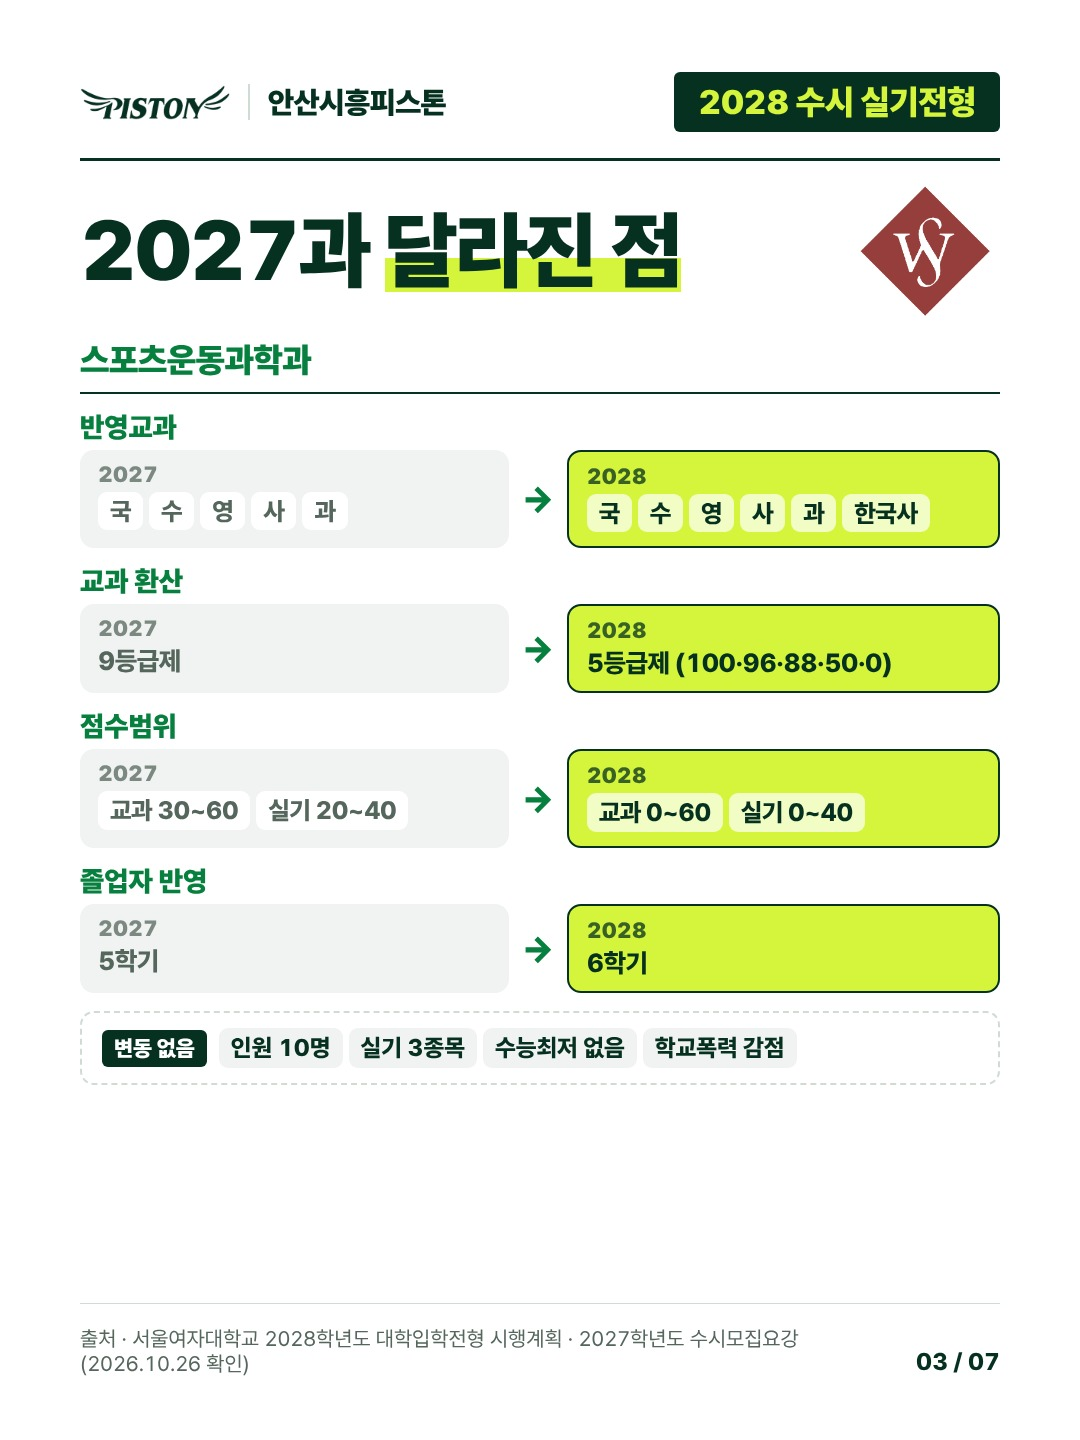
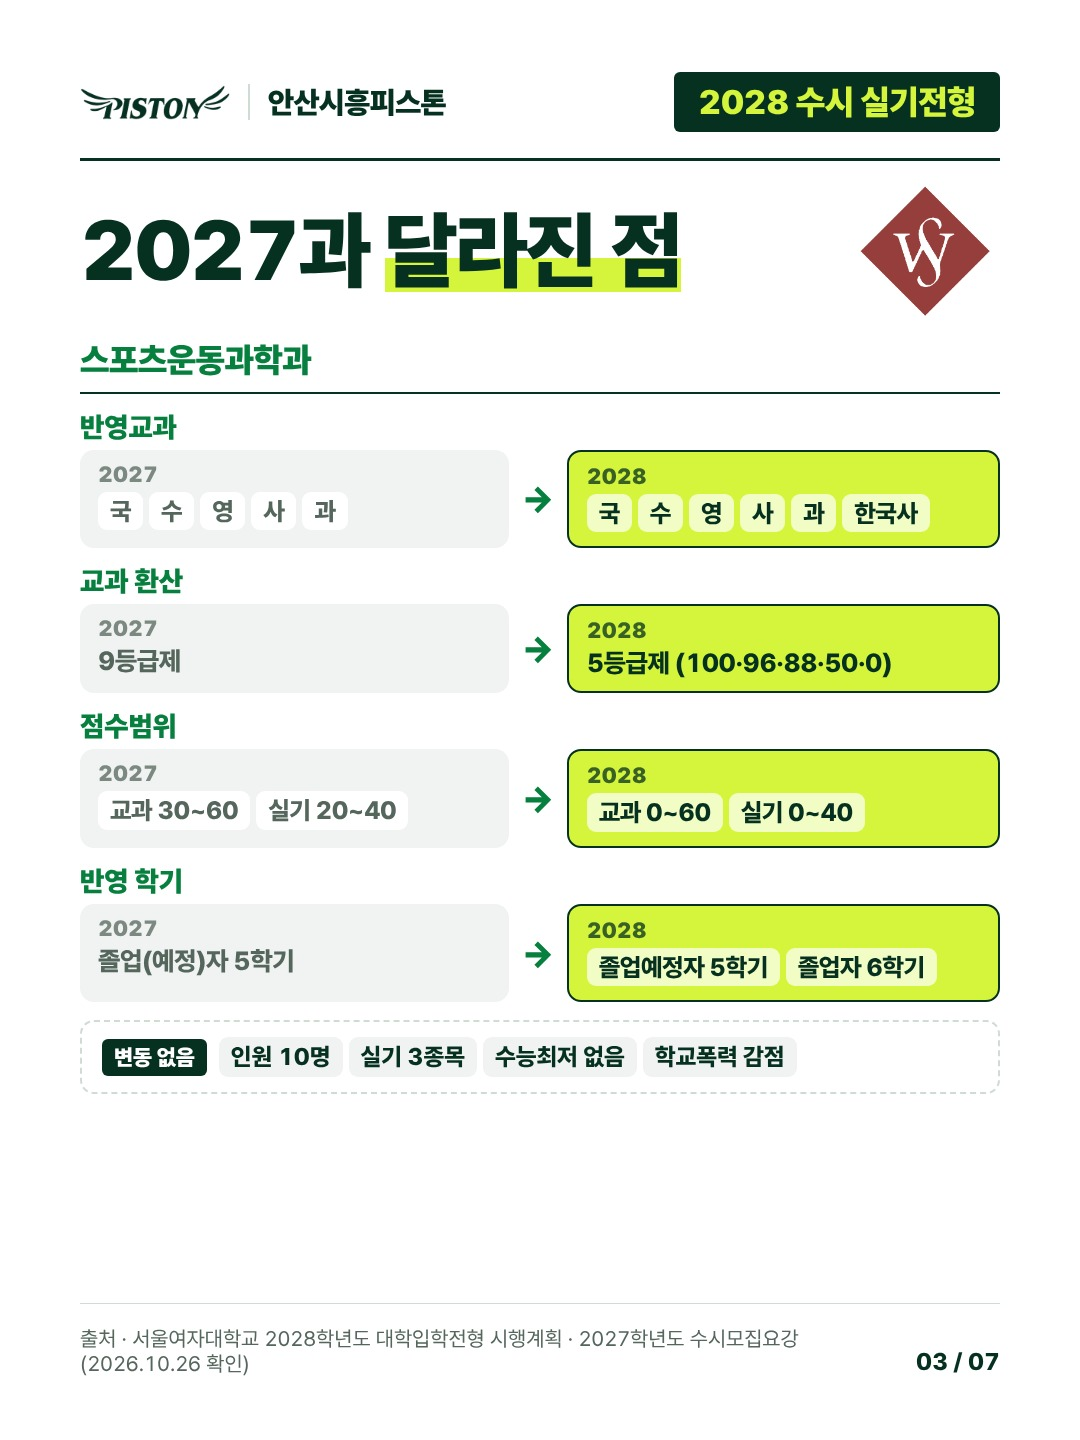
서울여대 졸업예정자/졸업자 표기
Claude-Session: https://claude.ai/code/session_01EGTn7G8nWP1yv5M2jqmoFb

diff --git a/social/out/swu-susi/blog.md b/social/out/swu-susi/blog.md
@@ -20,7 +20,7 @@
 - 반영교과: 국·수·영·사·과 → 국·수·영·사·과·한국사
 - 교과 환산: 9등급제 → 5등급제 (100·96·88·50·0)
 - 점수범위: 교과 30~60 · 실기 20~40 → 교과 0~60 · 실기 0~40
-- 졸업자 반영: 5학기 → 6학기
+- 반영 학기: 졸업(예정)자 5학기 → 졸업예정자 5학기 · 졸업자 6학기
 - 인원 10명 · 실기 3종목 · 수능최저 없음 · 학교폭력 감점 2027과 동일
 
 
